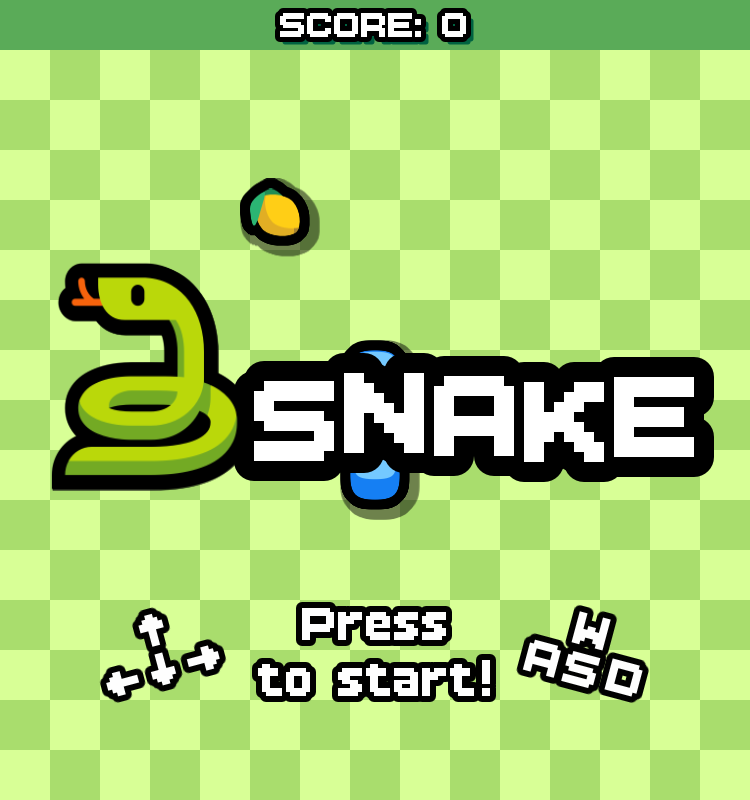
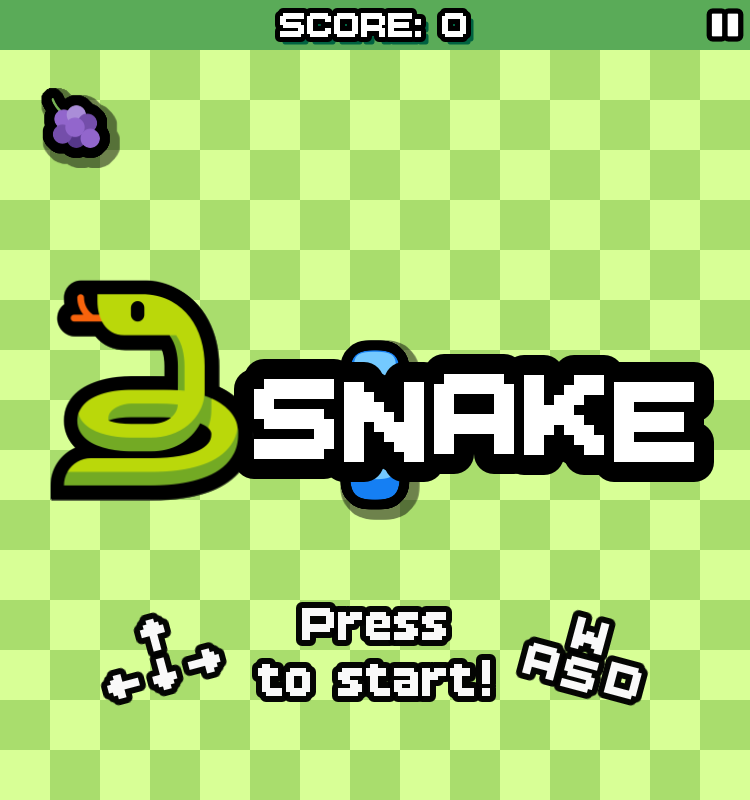
Added PauseMenu screen, added pause functions, fixed custom cursors' hotspot, updated README

diff --git a/README.md b/README.md
@@ -1,5 +1,12 @@
-<h1 align="center">🐍Snake</h1>
-<p align="center">A simple snake game made with Godot.</p>
+<p align="center">
+    <img width="240" src="Assets/icon.png"><br>
+    Your classic snake game remake!
+</p>
+
+# 🐍Snake
+
+This is a simple snake game made with Godot. It mainly focuses on simplicity and a bit ***JUICED UP*** gameplay with the help of `Tween` and `GPUParticles2D`'s animations, as well as some shaders' visual effects.
+
 <p align="center">
     <img width="240" src=".github/game_preview_0.png" alt="game_preview_0.png">
     <img width="240" src=".github/title_preview.png" alt="title_preview.png">
@@ -24,7 +31,8 @@ To learn and experience the following:
 - Apply multiple layers of shaders with the use of viewports and textures
 - Have some insight on shaders (very little atm.)
 - Manage signals and its parameters
-- Manage game states and scenes (i.e. pause state and *GameOver* screen)
+- Manage pause modes (i.e. *PauseMenu* and *GameOver* screen)
+- Modify SVGs and other assets
 
 ## Credits
 
@@ -46,6 +54,7 @@ https://opensvg.dev/icons
 - apple by Goran Spasojevic (MIT license)
 - lemon by Emoji One (CC BY-SA 4.0)
 - grapes by Twitter (CC BY 4.0)
-- circle, Material by Google (Apache 2.0 license)
 - cursor by ProCode (MIT license)
 - hand-pointing-down-02 by Hugeicons
+- pause by Paweł Kuna (MIT license)
+- circle, Material by Google (Apache 2.0 license)